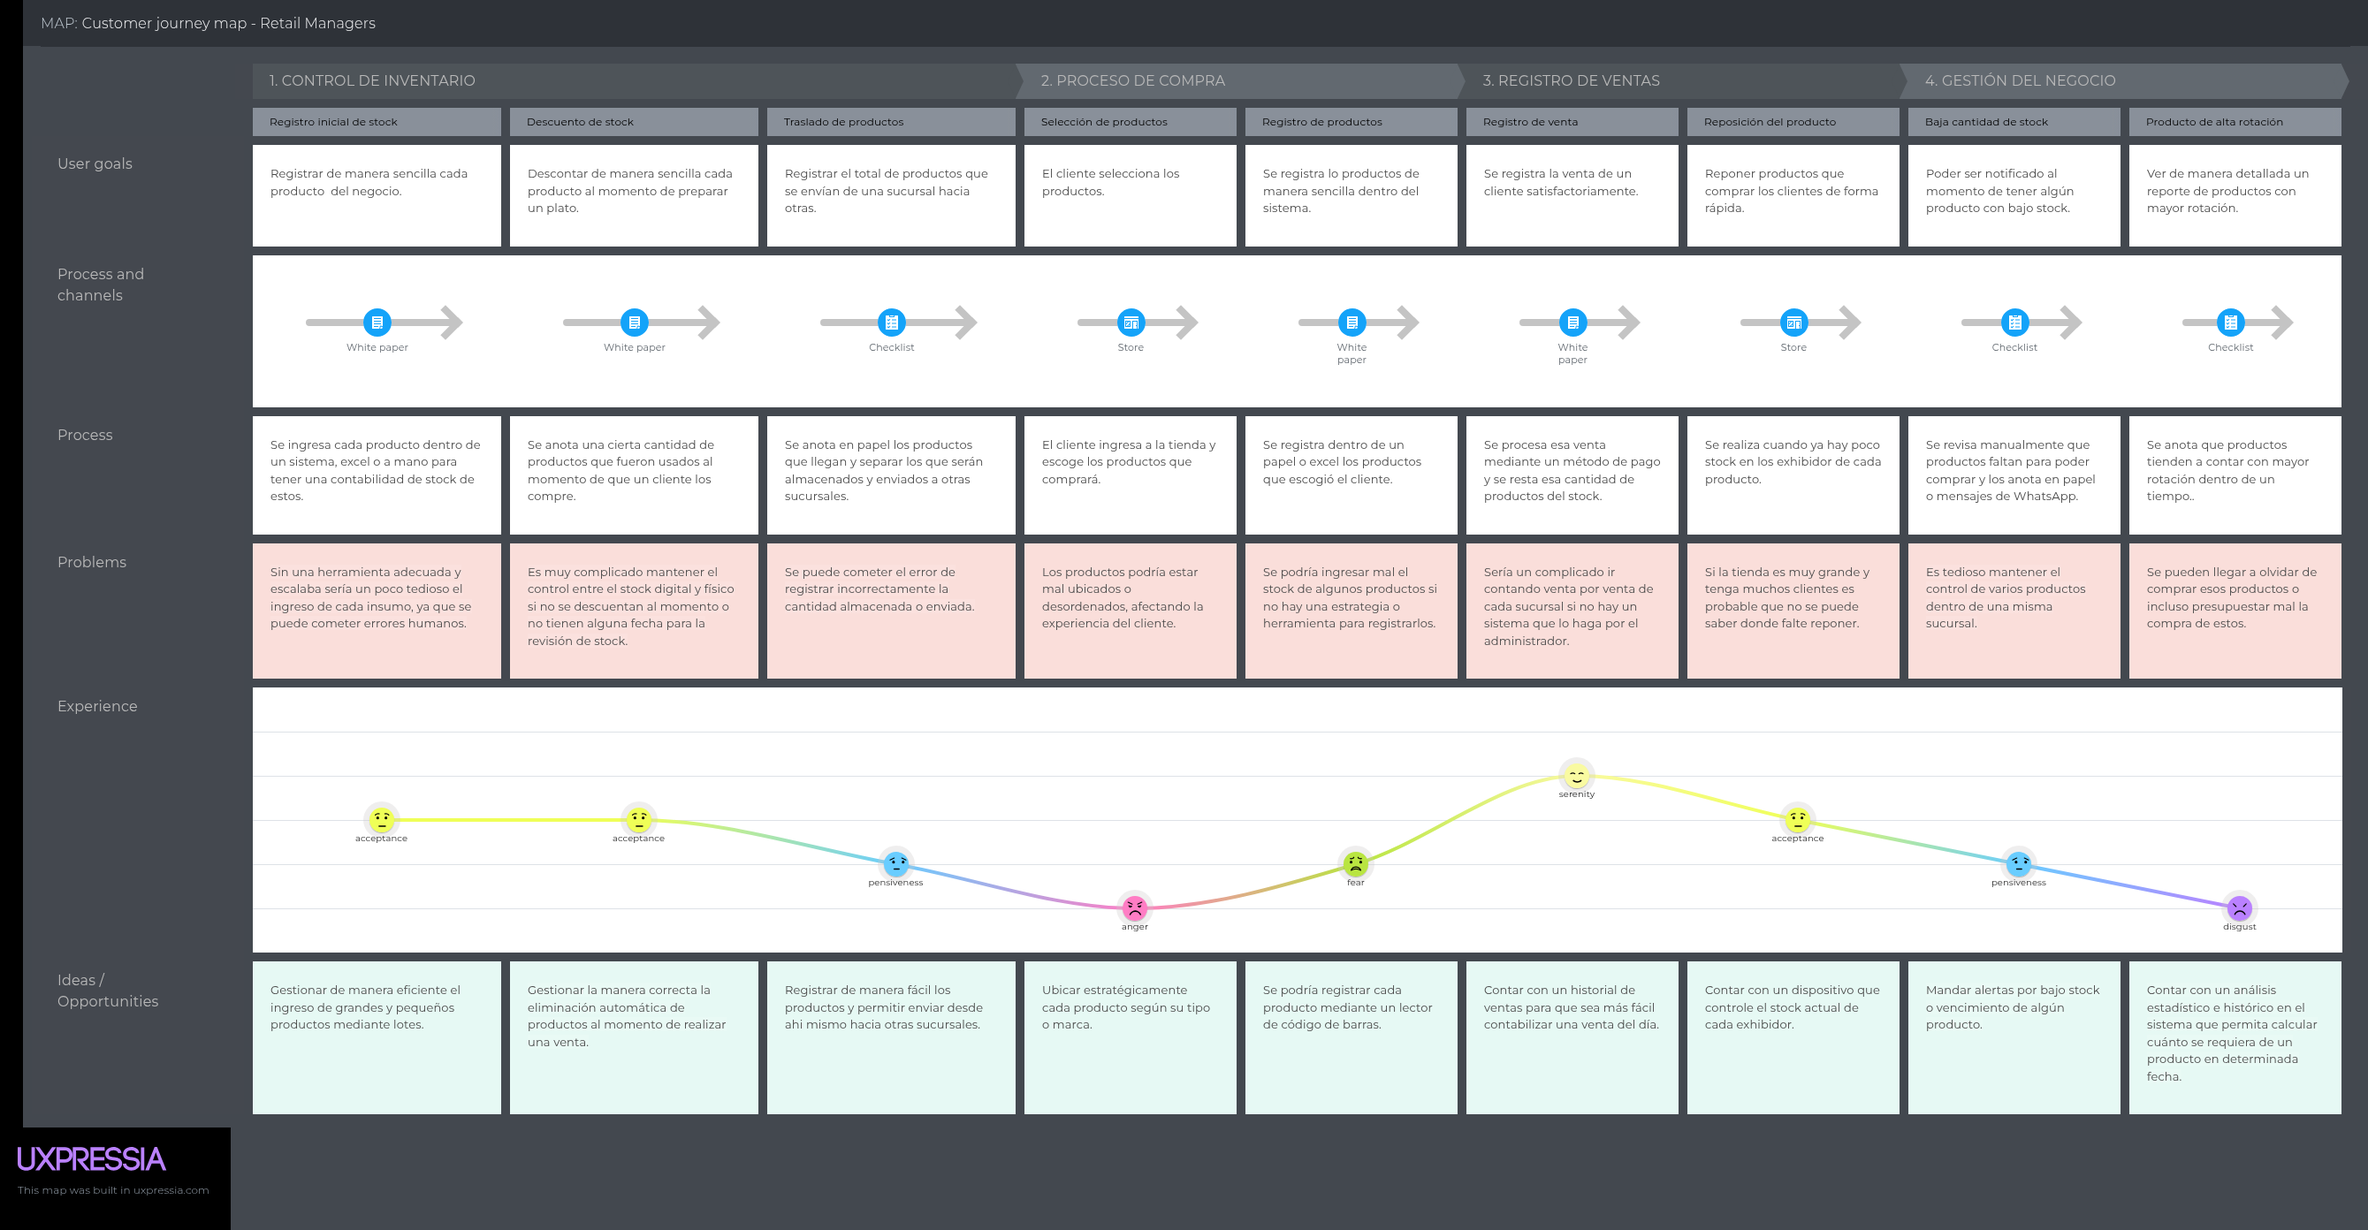
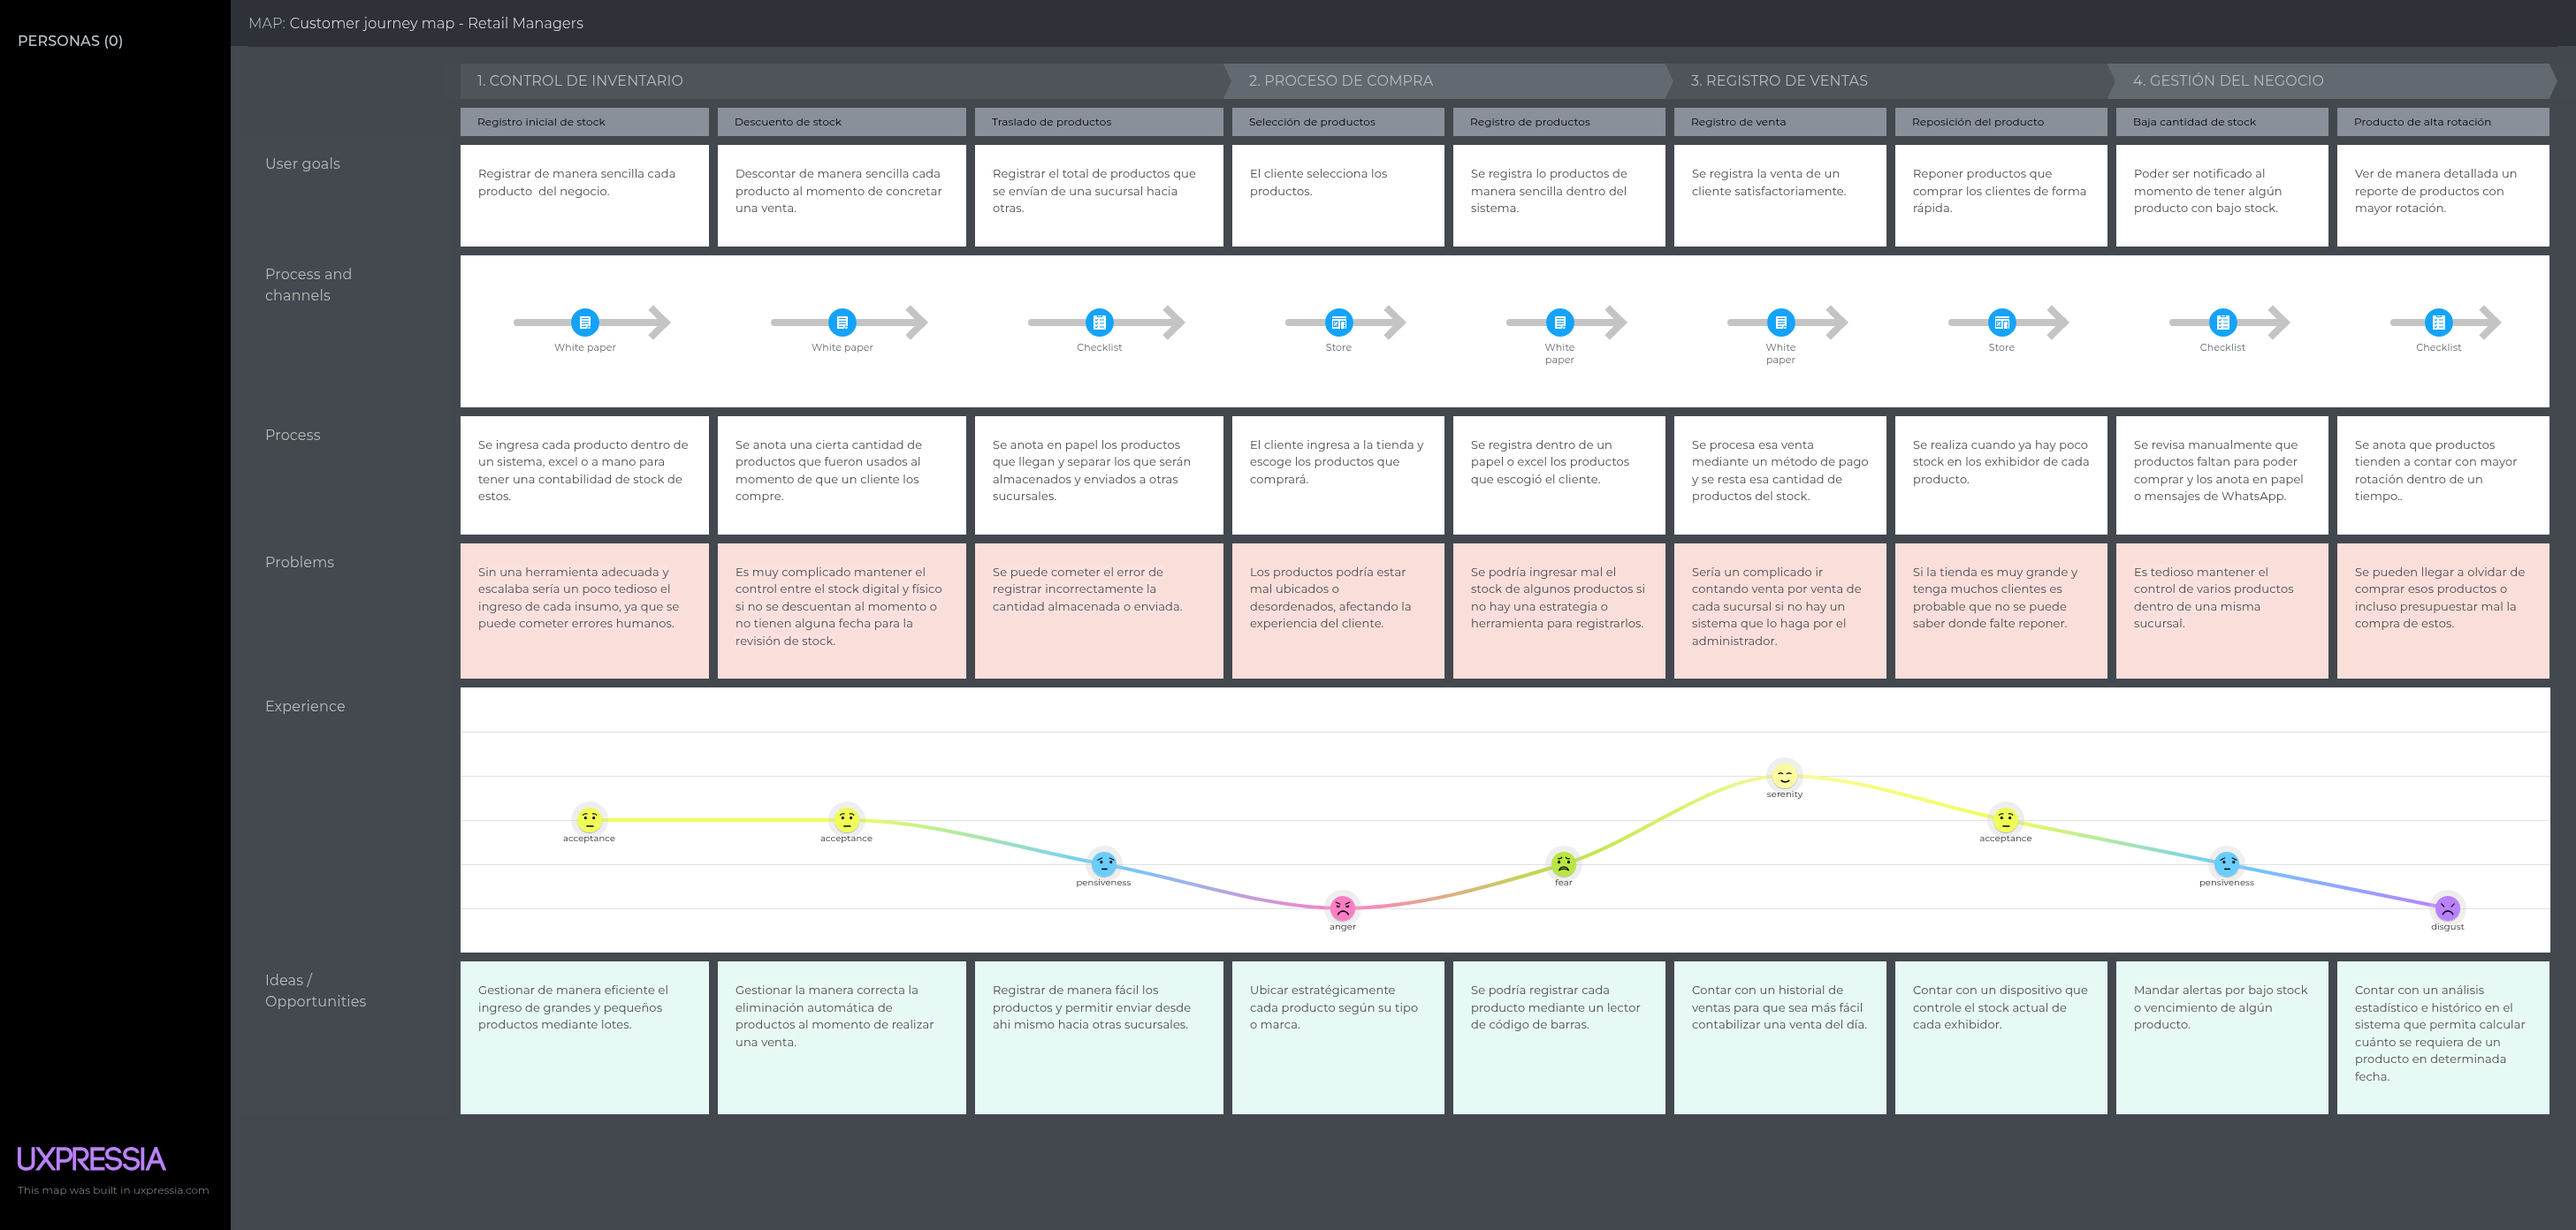
feat: change user goal discount stock for jorge torres.

diff --git a/03-chap3-requirements-specification.md b/03-chap3-requirements-specification.md
@@ -2,6 +2,226 @@
 
 ## 3.1. User Stories
 
+<table border="1" cellpadding="8" cellspacing="0" width="100%" style="margin-bottom:18px;">
+  <thead>
+    <tr>
+      <th>Story ID</th>
+      <th>User</th>
+      <th>Priority</th>
+      <th>Epic</th>
+    </tr>
+    <tr>
+      <td>US-</td>
+      <td>Visitante</td>
+      <td>Medium</td>
+      <td>EP-03</td>
+    </tr>
+  </thead>
+  <tbody>
+    <tr>
+      <td><strong>Title</strong></td>
+      <td colspan="3">Registro de usuario</td>
+    </tr>
+    <tr>
+      <td colspan="4" align="left"><strong>Description</strong><br/>
+            Como visitante quiero registrarme como administrador de una tienda retail para acceder a las funcionalidades de la aplicación. 
+      </td>
+    </tr>
+    <tr>
+      <td colspan="4" align="left"><strong>Acceptance Criteria</strong>
+        <ul>
+          <li><strong>Escenario #1: Registro exitoso:</strong> Dado que el visitante no tenga una cuenta cuando complete los campos de registro (Nombre del negocio, email, contraseña y rol) entonces se crea su cuenta e ingresa como administrador de retail o restaurante.</li>
+          <li><strong>Escenario #2: Registro fallido:</strong> Dado que el visitante no tenga una cuenta cuando ingrese un email con un formato no válido y una contraseña débil entonces se muestra un mensaje indicando que los datos ingresados no son válidos y no se realiza el registro del visitante.</li>
+          <li><strong>Escenario #3: Registro con correo existente:</strong> Dado que el visitante no tenga una cuenta cuando ingrese un correo ya asociado a una cuenta entonces se muestra un mensaje indicando que no se pudo completar el registro.</li>
+        </ul>
+      </td>
+    </tr>
+  </tbody>
+</table>
+
+
+<table border="1" cellpadding="8" cellspacing="0" width="100%" style="margin-bottom:18px;">
+  <thead>
+    <tr>
+      <th>Story ID</th>
+      <th>User</th>
+      <th>Priority</th>
+      <th>Epic</th>
+    </tr>
+    <tr>
+      <td>US-</td>
+      <td>Usuario</td>
+      <td>Medium</td>
+      <td>EP-03</td>
+    </tr>
+  </thead>
+  <tbody>
+    <tr>
+      <td><strong>Title</strong></td>
+      <td colspan="3">Inicio de sesión</td>
+    </tr>
+    <tr>
+      <td colspan="4" align="left"><strong>Description</strong><br/>
+            Como usuario no autenticado quiero iniciar sesión para acceder de forma seguro a mi cuenta.
+      </td>
+    </tr>
+    <tr>
+      <td colspan="4" align="left"><strong>Acceptance Criteria</strong>
+        <ul>
+          <li><strong>Escenario #1: Inicio de sesión exitoso:</strong> Dado que el usuario tenga una cuenta registrada cuando ingrese sus credenciales (correo y contraseña) entonces accede a su cuenta. </li>
+          <li><strong>Escenario #2: Credenciales incorrectas:</strong> Dado que el usuario no haya iniciado sesión cuando ingrese un correo o contraseña incorrectos entonces se muestra un mensaje indicando que las credenciales no son válidas y no se le permite el acceso a su cuenta.</li></ul>
+      </td>
+    </tr>
+  </tbody>
+</table>
+
+
+<table border="1" cellpadding="8" cellspacing="0" width="100%" style="margin-bottom:18px;">
+  <thead>
+    <tr>
+      <th>Story ID</th>
+      <th>User</th>
+      <th>Priority</th>
+      <th>Epic</th>
+    </tr>
+    <tr>
+      <td>US-</td>
+      <td>Usuario</td>
+      <td>LOW</td>
+      <td>EP-03</td>
+    </tr>
+  </thead>
+  <tbody>
+    <tr>
+      <td><strong>Title</strong></td>
+      <td colspan="3">Solicitar recuperación de acceso</td>
+    </tr>
+    <tr>
+      <td colspan="4" align="left"><strong>Description</strong><br/>
+            Como usuario que olvido su contraseña quiero solicitar la recuperación de acceso a mi cuenta mediante mi correo electrónico para restablecer mi cuenta mediante mi correo electrónico
+      </td>
+    </tr>
+    <tr>
+      <td colspan="4" align="left"><strong>Acceptance Criteria</strong>
+        <ul>
+          <li><strong>Escenario #1: Solicitud:</strong> </li>
+          <li><strong>Escenario #2: Registro fallido:</strong> </li>
+        </ul>
+      </td>
+    </tr>
+  </tbody>
+</table>
+
+
+<table border="1" cellpadding="8" cellspacing="0" width="100%" style="margin-bottom:18px;">
+  <thead>
+    <tr>
+      <th>Story ID</th>
+      <th>User</th>
+      <th>Priority</th>
+      <th>Epic</th>
+    </tr>
+    <tr>
+      <td>US-</td>
+      <td></td>
+      <td>Medium</td>
+      <td>EP-03</td>
+    </tr>
+  </thead>
+  <tbody>
+    <tr>
+      <td><strong>Title</strong></td>
+      <td colspan="3"></td>
+    </tr>
+    <tr>
+      <td colspan="4" align="left"><strong>Description</strong><br/>
+            Como
+      </td>
+    </tr>
+    <tr>
+      <td colspan="4" align="left"><strong>Acceptance Criteria</strong>
+        <ul>
+          <li><strong>Escenario #1: Registro exitoso:</strong> </li>
+          <li><strong>Escenario #2: Registro fallido:</strong> </li>
+        </ul>
+      </td>
+    </tr>
+  </tbody>
+</table>
+
+<table border="1" cellpadding="8" cellspacing="0" width="100%" style="margin-bottom:18px;">
+  <thead>
+    <tr>
+      <th>Story ID</th>
+      <th>User</th>
+      <th>Priority</th>
+      <th>Epic</th>
+    </tr>
+    <tr>
+      <td>US-</td>
+      <td>Desarrollador</td>
+      <td>Medium</td>
+      <td>EP-03</td>
+    </tr>
+  </thead>
+  <tbody>
+    <tr>
+      <td><strong>Title</strong></td>
+      <td colspan="3">Endpoint para registro de usuarios</td>
+    </tr>
+    <tr>
+      <td colspan="4" align="left"><strong>Description</strong><br/>
+            Como desarrollador quiero implementar un endpoint POST "api/v1/auth/sign-up" para el registro de usuarios sea de forma segura. 
+      </td>
+    </tr>
+    <tr>
+      <td colspan="4" align="left"><strong>Acceptance Criteria</strong>
+        <ul>
+          <li><strong>Escenario #1: Registro exitoso:</strong> Dado que se envíe una solicitud al endpoint con el nombre del negocio, correo, contraseña y rol cuando los datos sean válidos entonces se almacenan la contraseña encriptada en la base de datos y se registra la cuenta y responde con un estado 201 CREATED.</li>
+          <li><strong>Escenario #2: Correo duplicado:</strong> Dado que el correo se encuentre asociado a un usuario cuando se envía la solicitud al endpoint con dicho correo entonces devuelve un estado 409 CONFLICT y muestra el mensaje de error.</li>
+          <li><strong>Escenario #3: Datos de registro incompletos:</strong> Dado que la solicitud enviada al endpoint no contiene los campos obligatorios cuando se intente procesar la solicitud entonces responde con un estado 400 BAD REQUEST y muestra un mensaje indicando los campos requeridos.</li>
+        </ul>
+      </td>
+    </tr>
+  </tbody>
+</table>
+
+
+<table border="1" cellpadding="8" cellspacing="0" width="100%" style="margin-bottom:18px;">
+  <thead>
+    <tr>
+      <th>Story ID</th>
+      <th>User</th>
+      <th>Priority</th>
+      <th>Epic</th>
+    </tr>
+    <tr>
+      <td>US-</td>
+      <td>Desarrollador</td>
+      <td>Medium</td>
+      <td>EP-03</td>
+    </tr>
+  </thead>
+  <tbody>
+    <tr>
+      <td><strong>Title</strong></td>
+      <td colspan="3">Autenticación de usuarios</td>
+    </tr>
+    <tr>
+      <td colspan="4" align="left"><strong>Description</strong><br/>
+            Como desarrollador quiero implementar un endpoint POST "api/v1/auth/sign-in" para que se permita el acceso de usurios al sistema.
+      </td>
+    </tr>
+    <tr>
+      <td colspan="4" align="left"><strong>Acceptance Criteria</strong>
+        <ul>
+          <li><strong>Escenario #1: Inicio de sesión exitoso:</strong> Dado que el usuario envíe una solicitud al endpoint con el correo y contraseña cuando los datos son válidos entonces el sistema responde con un estado 200 OK y genera un token de acceso.</li>
+          <li><strong>Escenario #2: Credenciales incorrectas:</strong> Dado que el usuario inicie sesión con credenciales inválidas cuando se verifica el correo y contraseña encriptada en la base de datos entonces el sistema responde con un estado 401 UNAUTHORIZED.</li>
+        </ul>
+      </td>
+    </tr>
+  </tbody>
+</table>
 
 ## 3.2. Impact Mapping
 
